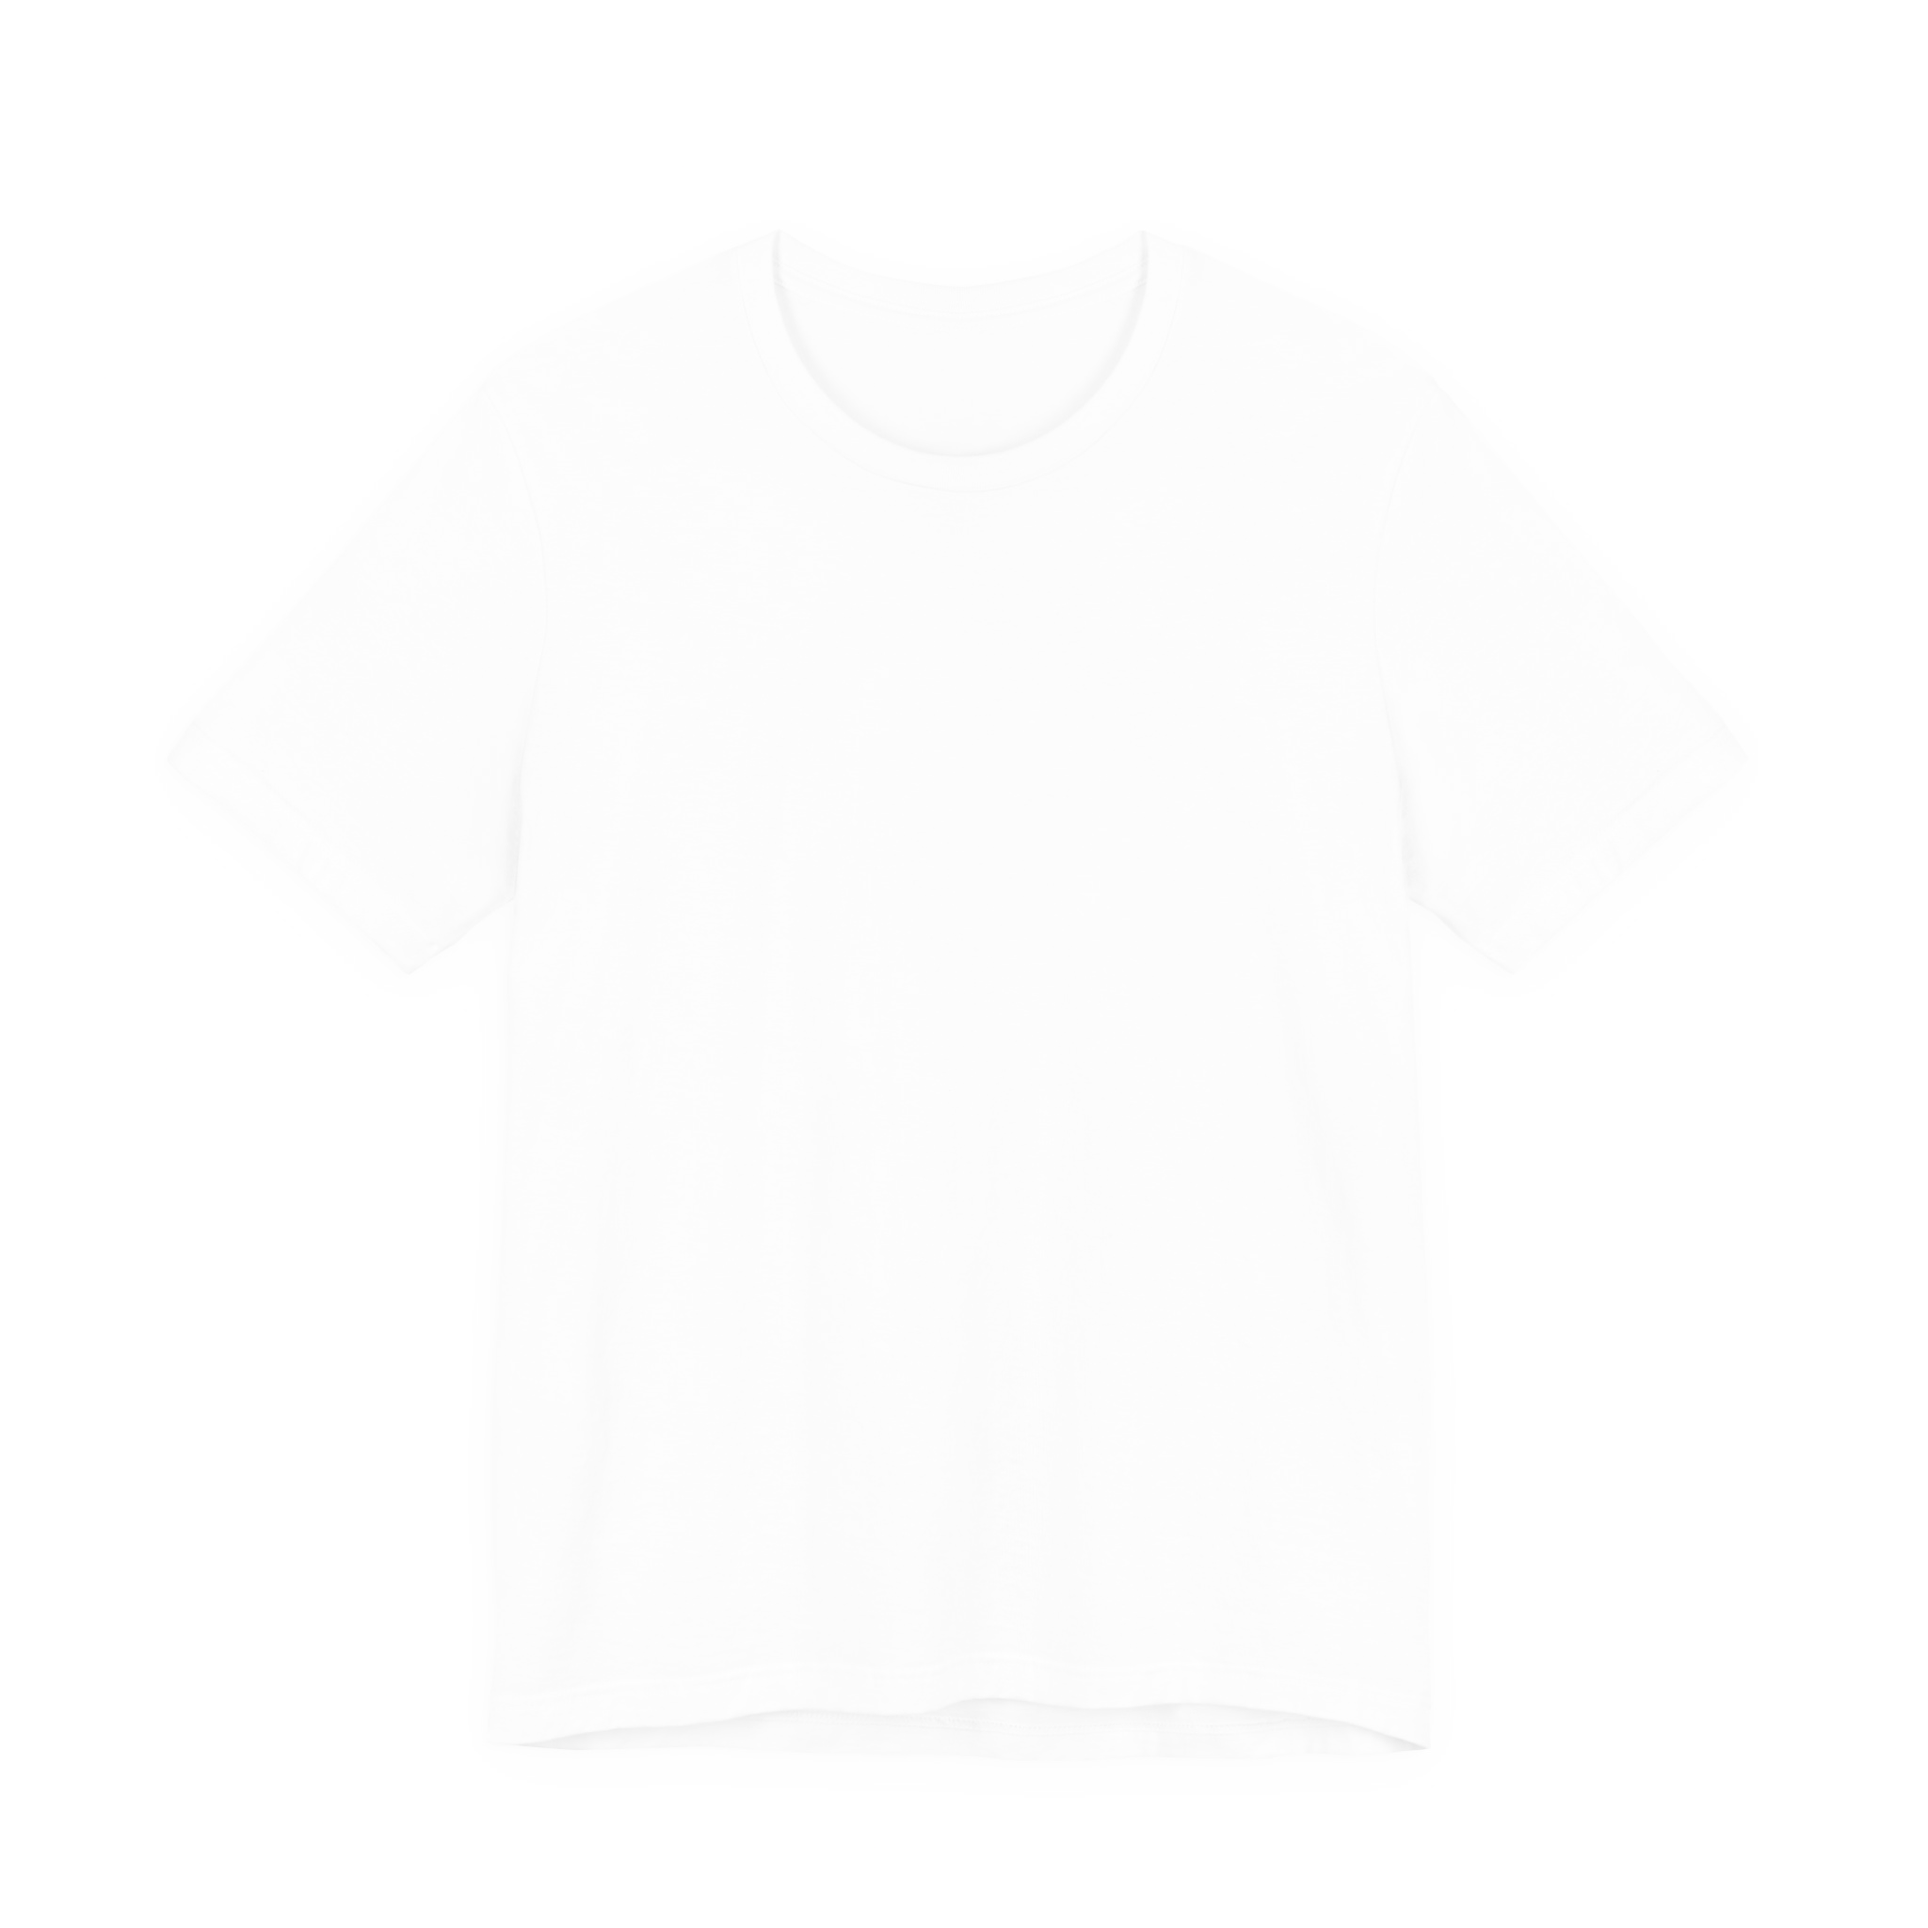
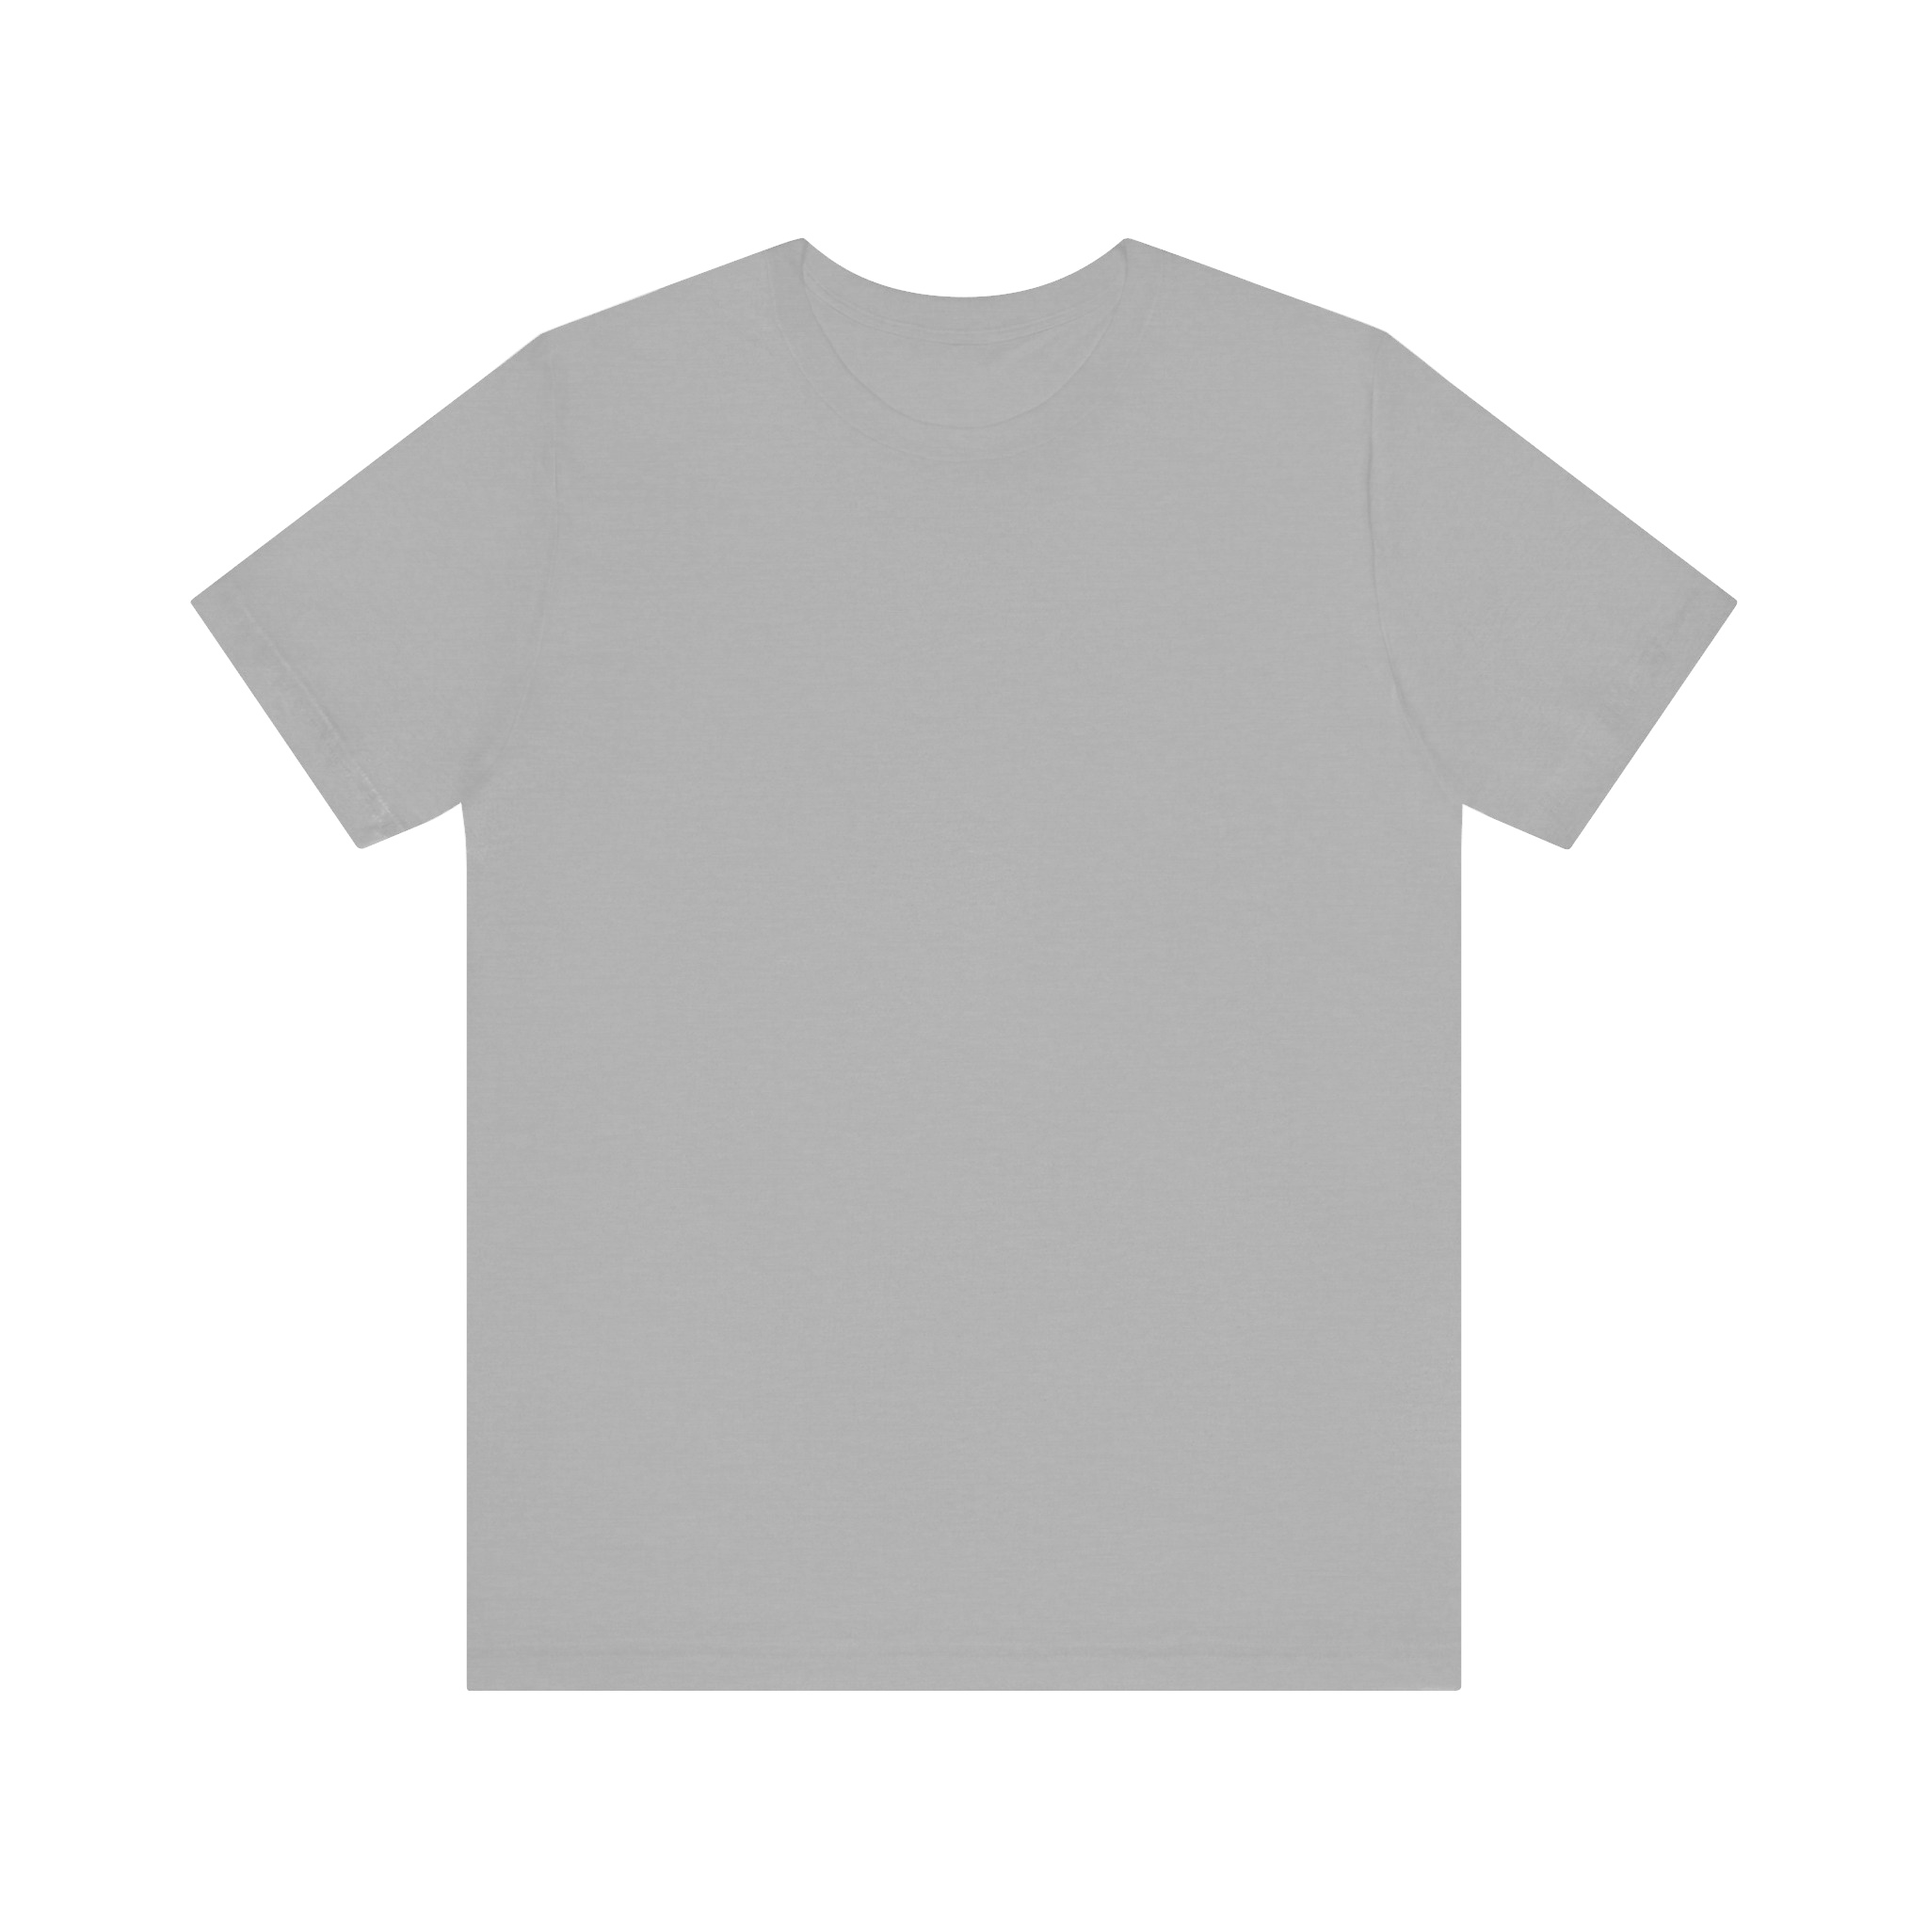
colored shirt work

diff --git a/app/data/products.ts b/app/data/products.ts
@@ -1,8 +1,15 @@
+export interface ProductColor {
+    name: string;
+    hex: string;
+    image: string; // Path to the realistic preview image for this color
+}
+
 export interface Product {
     id: string;
     name: string;
-    image: string; // Path to the base product image (SVG or PNG)
-    canvasSize: number; // The size of the editor canvas (e.g., 1024)
+    image: string; // Path to the base editor cutout (usually transparent PNG of outline/folds)
+    canvasSize: number;
+    colors: ProductColor[]; // New: Available colors
     designZone: {
         left: number;
         top: number;
@@ -10,9 +17,10 @@ export interface Product {
         height: number;
     };
     previewConfig: {
-        image: string; // The base image for the preview
+        // We keep a default image here, but the Color object will override it
+        image: string;
         designZone: {
-            left: number; // Percentage (0-100) or pixel value relative to preview image
+            left: number;
             top: number;
             width: number;
             height: number;
@@ -26,11 +34,35 @@ export const products: Product[] = [
     {
         id: 't-shirt-standard',
         name: 'Standard T-Shirt',
-        image: '/shirt_cutout.svg',
+        image: '/shirt_cutout.svg', // Ensure this is a transparent PNG/SVG so background color shows through
         canvasSize: 1024,
-        // Coordinates calculated from shirt_cutout.svg (3104x3104) scaled to 1024x1024
-        // Original: x=976.76, y=544.25, w=1151.71, h=1535.62
-        // Scale: 1024 / 3103.96 ≈ 0.3299
+        colors: [
+            {
+                name: 'Heather Grey',
+                hex: '#888888',
+                image: '/products/shirt/colors/shirt_grey.png'
+            },
+            {
+                name: 'Midnight Black',
+                hex: '#1a1a1a',
+                image: '/products/shirt/colors/shirt_black.png'
+            },
+            {
+                name: 'Navy Blue',
+                hex: '#1e3a8a',
+                image: '/products/shirt/colors/shirt_navy.png'
+            },
+            {
+                name: 'Cardinal Red',
+                hex: '#991b1b',
+                image: '/products/shirt/colors/shirt_red.png'
+            },
+            {
+                name: 'Classic White',
+                hex: '#ffffff',
+                image: '/products/shirt/colors/shirt_white.png'
+            },
+        ],
         designZone: {
             left: 335,
             top: 270,
@@ -38,15 +70,16 @@ export const products: Product[] = [
             height: 447,
         },
         previewConfig: {
-            image: '/shirt_base.png',
+            image: '/products/shirt/colors/shirt_grey.png', // Default
             designZone: {
                 left: 357,
                 top: 350,
                 width: 320,
                 height: 407,
             },
-            displacementMap: '/shirt_base_displacement.png',
-            shadowMap: '/shirt_base_ambient_occ.png',
+            // Updated paths as requested
+            displacementMap: '/products/shirt/maps/displacement.png',
+            shadowMap: '/products/shirt/maps/shadow.png',
         },
     },
-]; 
+];

diff --git a/app/components/ProductPreview.tsx b/app/components/ProductPreview.tsx
@@ -82,9 +82,9 @@ export default function ProductPreview({ designTextureUrl, product }: ProductPre
                         className="absolute z-20 pointer-events-none transition-all duration-200"
                         style={{
                             ...zoneStyle, // Position it exactly in the preview zone
-                            mixBlendMode: 'multiply',
-                            opacity: 0.95,
-                            filter: 'url(#fabric-warp) contrast(1.03)',
+                            mixBlendMode: 'normal',
+                            opacity: 1,
+                            filter: 'url(#fabric-warp) contrast(1)',
                             imageRendering: 'auto',
                         }}
                     />
